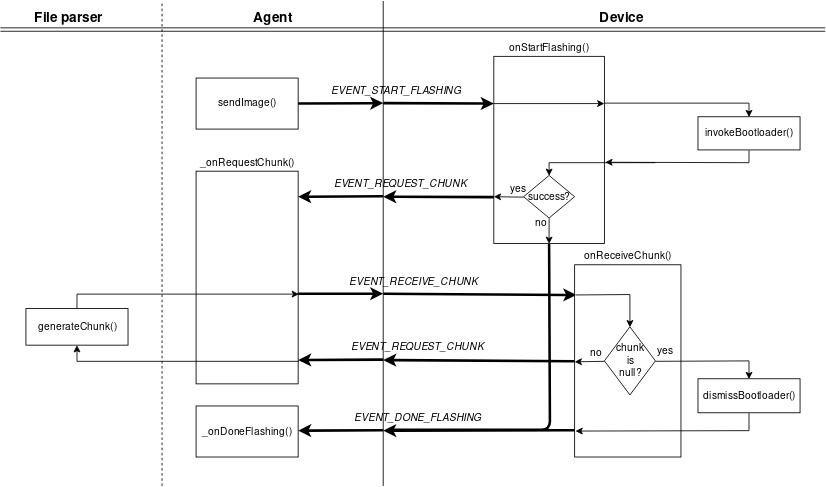
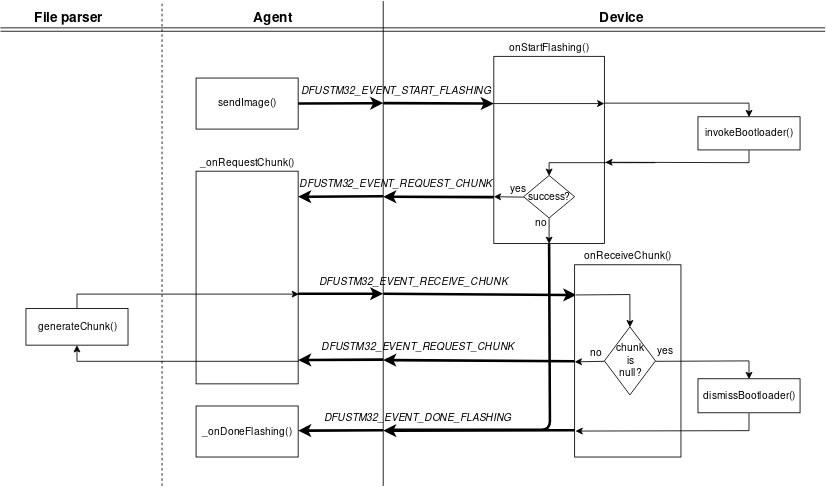
Prefix constants.

diff --git a/docs/reference.md b/docs/reference.md
@@ -208,12 +208,12 @@ Set callback for the end of device operation. Use this chance to perform extra c
 
 Callback parameters:
 - `DFUSTM32Device` class instance;
-- default device status: either `STATUS_OK` or `STATUS_ABORTED`.
+- default device status: either `DFUSTM32_STATUS_OK` or `DFUSTM32_STATUS_ABORTED`.
 
 This callback should return device status string.
 
 ### onStartFlashing(*data*)
-EVENT_START_FLASHING handler.
+DFUSTM32_EVENT_START_FLASHING handler.
 
 | Parameter | Data&nbsp;Type | Required? | Description |
 | --- | --- | --- | --- |
@@ -223,7 +223,7 @@ EVENT_START_FLASHING handler.
 Sets bootX pin(s) and pull reset or issue some command to MCU for reboot itself into the bootloader mode.
 
 ### onReceiveChunk(*chunk*)
-EVENT_RECEIVE_CHUNK handler.
+DFUSTM32_EVENT_RECEIVE_CHUNK handler.
 
 | Parameter | Data&nbsp;Type | Required? | Description |
 | --- | --- | --- | --- |
@@ -244,10 +244,10 @@ DFU-STM32 uses Electric Imp's [messaging system](https://developer.electricimp.c
 
 | Message name | Direction | Payload | Meaning |
 | --- | --- | --- | --- |
-| `EVENT_START_FLASHING` | agent → device | none | The agent have a new firmware image and want to make sure that the device is ready to flash it. |
-| `EVENT_REQUEST_CHUNK` | device → agent | none | The device is waiting for a chunk of firmware data. |
-| `EVENT_RECEIVE_CHUNK` | agent → device | `table`: chunk | The agent is sending a chunk to the device. Chunk format is described [here](#setbeforesendchunkcallback). |
-| `EVENT_DONE_FLASHING` | device → agent | `string`: status | Either the device is finished the process of flashing the firmware and returned back to normal mode, or the process was aborted, depending on `status`. The standard statuses are described [here](#setbeforedonecallback). |
+| `DFUSTM32_EVENT_START_FLASHING` | agent → device | none | The agent have a new firmware image and want to make sure that the device is ready to flash it. |
+| `DFUSTM32_EVENT_REQUEST_CHUNK` | device → agent | none | The device is waiting for a chunk of firmware data. |
+| `DFUSTM32_EVENT_RECEIVE_CHUNK` | agent → device | `table`: chunk | The agent is sending a chunk to the device. Chunk format is described [here](#setbeforesendchunkcallback). |
+| `DFUSTM32_EVENT_DONE_FLASHING` | device → agent | `string`: status | Either the device is finished the process of flashing the firmware and returned back to normal mode, or the process was aborted, depending on `status`. The standard statuses are described [here](#setbeforedonecallback). |
 
 DFU-STM32's working process can be described by the following diagram.
 
